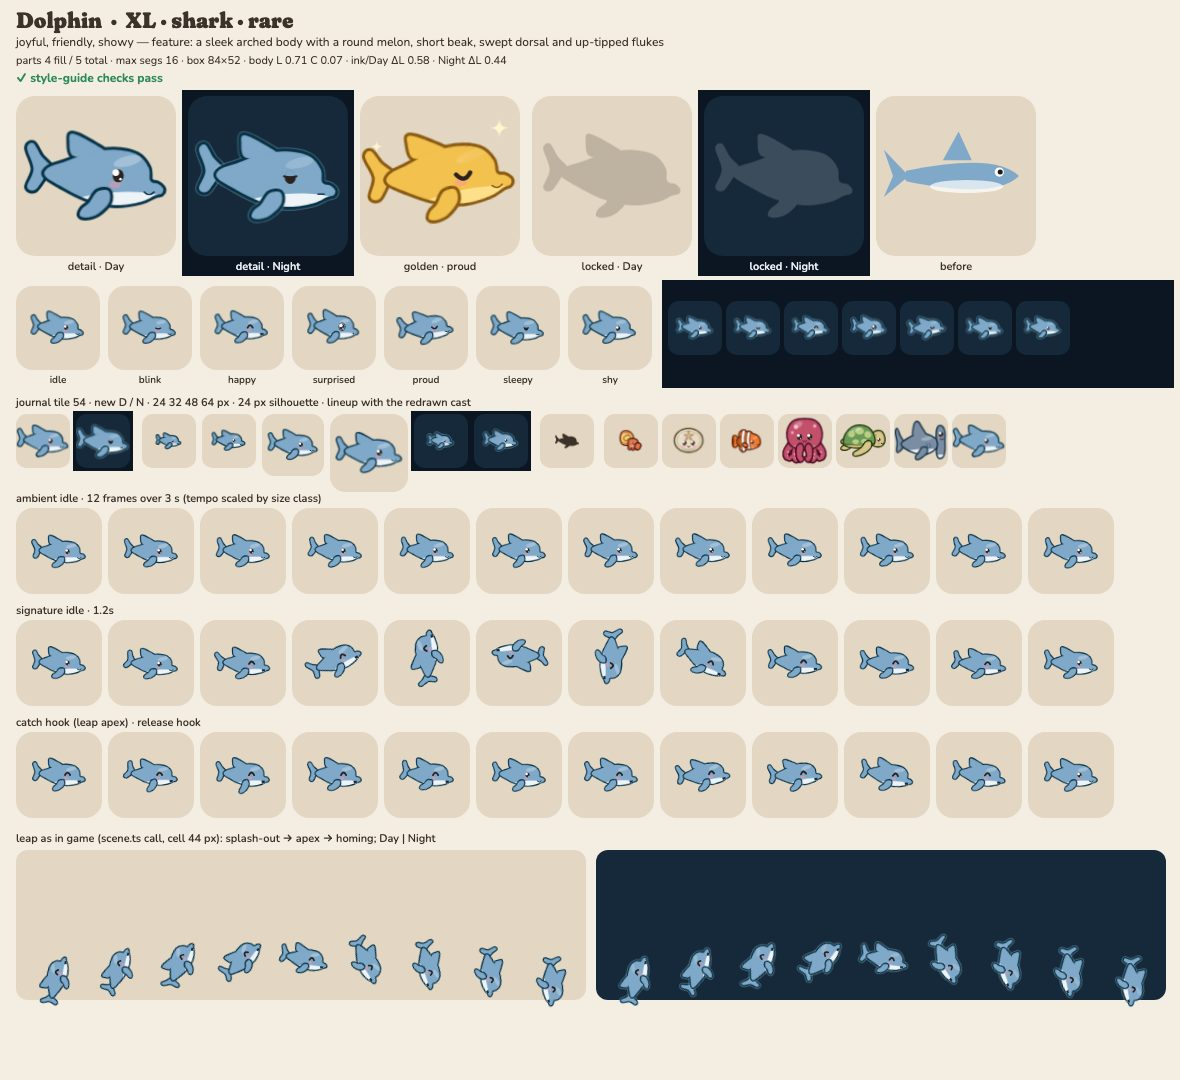
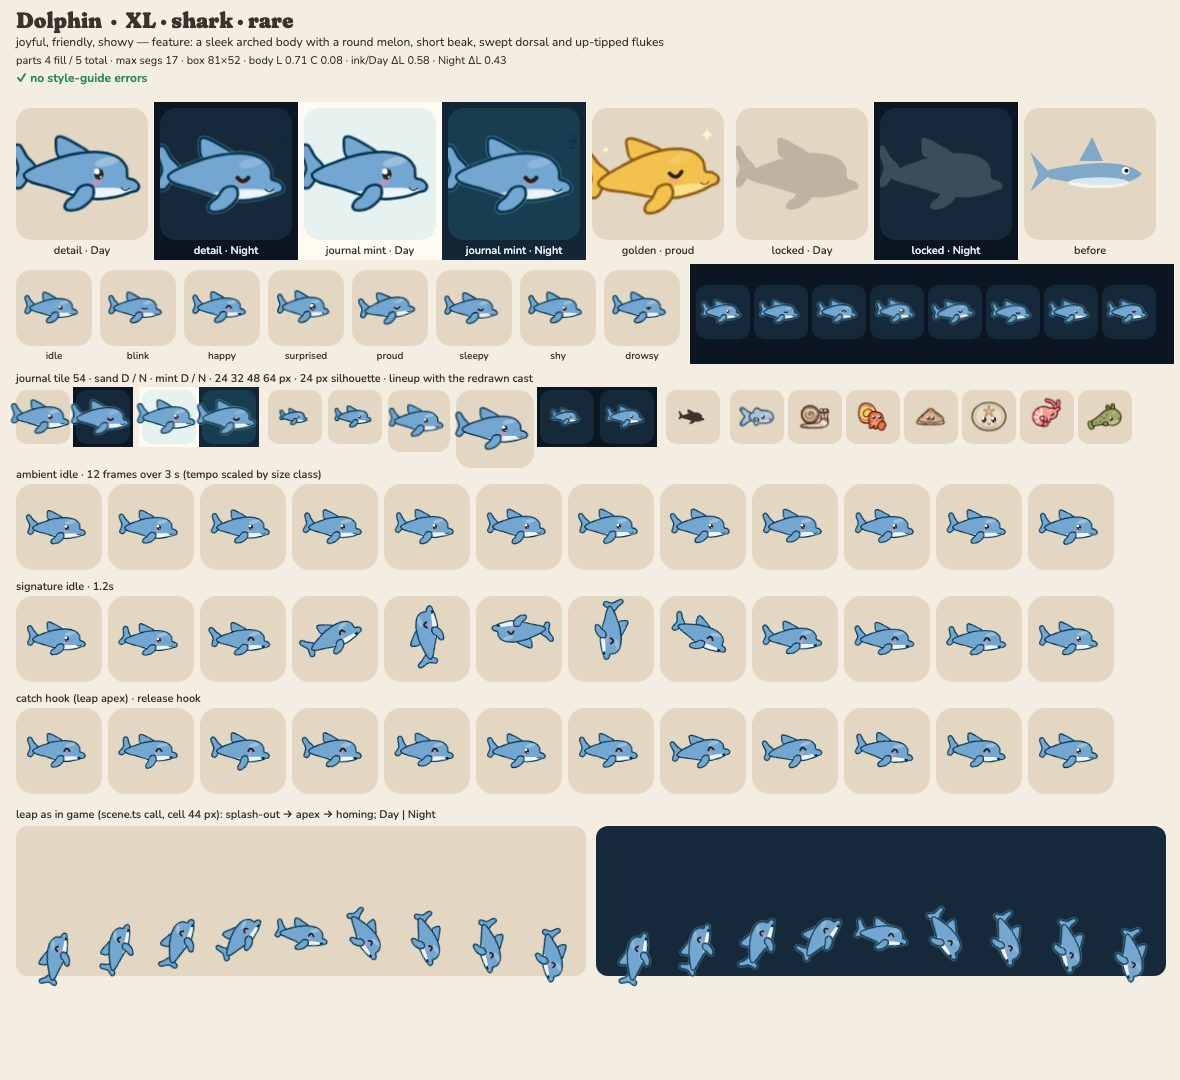
art: dolphin — flukes break the XL frame, level body (ADR 0011)
CRITIQUE-1 A notes + lint: flukes extra (3.7 px frame-break), dorsal on
its own layer, longer slimmer body (tilt 4 deg), body chroma 0.084.
Lint-clean; closest flounder 0.68, hammerhead 0.66.

diff --git a/src/render/art/species/dolphin.ts b/src/render/art/species/dolphin.ts
@@ -5,37 +5,44 @@
  * Personality: joyful, friendly, showy. Its mouth line is a permanent smile.
  * Signature: a little spin-leap inside the tile (hop + full roll), landing with a happy face.
  */
-import { blob, defineArt, ellipse, tube } from '../kit.ts';
+import { blob, defineArt, ellipse, tube, xform } from '../kit.ts';
 
+const FLUKE_DX = -5;
+
+// long and sleek (about 2 : 1 with the dorsal): a round melon, a short beak, a slim tail stock
 const body = blob([
   [42, 5],
   [39, 2],
   [34, 0],
   [33, -8],
-  [26, -16],
-  [12, -19],
-  [-4, -17],
-  [-18, -12],
-  [-29, -8],
-  [-31, -3],
-  [-22, 3],
-  [-6, 11],
-  [12, 15],
-  [28, 13],
+  [26, -15],
+  [12, -18],
+  [-6, -16],
+  [-22, -11],
+  [-34, -6],
+  [-39, -2],
+  [-34, 2],
+  [-20, 6],
+  [-4, 11],
+  [12, 14],
+  [28, 12],
   [37, 9],
   [41, 8],
 ]);
 // whale-style flukes: two round lobes fanned up and down from a slim stock
-const flukes = blob([
-  [-27, -8],
-  [-33, -15],
-  [-38, -23],
-  [-42, -20],
-  [-38, -7],
-  [-42, 4],
-  [-37, 6],
-  [-31, -2],
-]);
+const flukes = xform(
+  blob([
+    [-27, -8],
+    [-33, -15],
+    [-38, -23],
+    [-42, -20],
+    [-38, -7],
+    [-42, 4],
+    [-37, 6],
+    [-31, -2],
+  ]),
+  { tx: FLUKE_DX },
+);
 // a low, hooked dorsal (a shark's is tall and straight)
 const dorsal = blob([
   [6, -17],
@@ -56,13 +63,15 @@ export default defineArt({
   size: 'XL',
   feature: 'a sleek arched body with a round melon, short beak, swept dorsal and up-tipped flukes',
   personality: ['joyful', 'friendly', 'showy'],
-  palette: { body: '#7FA8C9', belly: '#EEF3F7' },
+  palette: { body: '#74A6D2', belly: '#EEF3F7' },
   groups: [
-    { id: 'tail', pivot: [-28, -5], parts: [{ d: flukes, role: 'body' }] },
+    // the flukes are `extra`: they break the XL frame (R28)
+    { id: 'tail', pivot: [-36, -2], parts: [{ d: flukes, role: 'body', extra: true }] },
+    // the dorsal is its own layer so the body rests level (R5T)
+    { id: 'dorsal', pivot: [-6, -16], parts: [{ d: dorsal, role: 'body' }] },
     {
       id: 'body',
       parts: [
-        { d: dorsal, role: 'body' },
         { d: body, role: 'body' },
         { d: ellipse(12, 16, 34, 9, -4), role: 'belly', kind: 'pattern' },
       ],

diff --git a/docs/art/notes/fleet-5.md b/docs/art/notes/fleet-5.md
@@ -135,3 +135,12 @@ Species: hammerhead, dolphin, whaleshark, angler, otter, goldturtle. Sheets in `
      eye 8 → 8.4.
 - **Self-grade:** A-. Earnest and wide-eyed; the scan swings the hammer with both eyes.
 - **Tight pair:** dolphin 0.697 (limit 0.70), so the dolphin redo moves away from it.
+
+## dolphin — A, frame-break + lint
+- **Fixes:** flukes are `extra` and break the XL frame by 3.7 px (R28); the dorsal moved to its own
+  layer and the body was lengthened to ~2 : 1 with a slim tail stock, so it rests level (13° → 4°,
+  R5T); body `#74A6D2` (chroma 0.084, R16S).
+- **Rounds (2):** (1) extra flukes + level body, but the smaller body box made it as round as the
+  clownfish (IoU 0.74, fail); (2) longer, slimmer body: clownfish 0.63, hammerhead 0.66, flounder
+  0.68. Lint-clean.
+- **Self-grade:** A. Same joyful dolphin, now big in the tile with its flukes past the edge.
